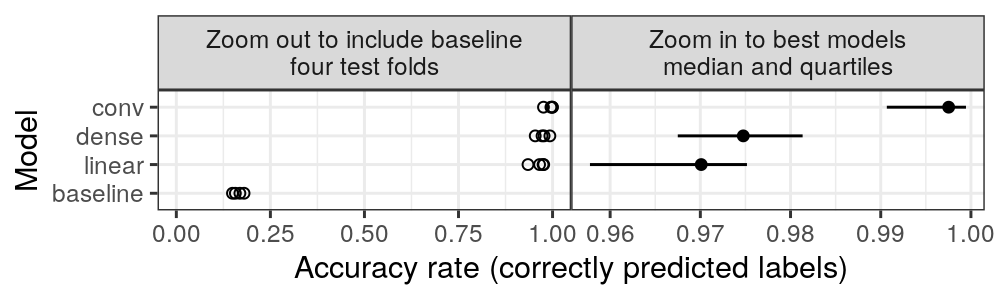
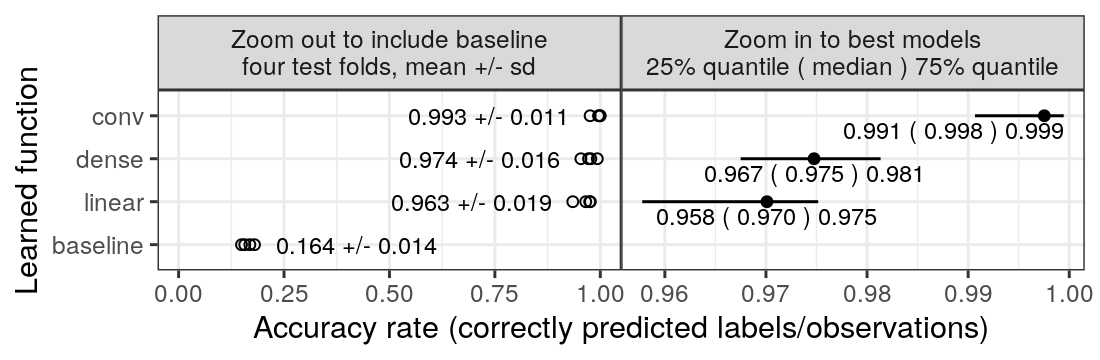
both fig with geom_text

Changed region(s): [[0.0, 0.03, 1.0, 0.96]]

diff --git a/HOCKING-chapter.tex b/HOCKING-chapter.tex
@@ -97,11 +97,12 @@ for Trouser, 2 for Pullover, etc).  In both data sets the goal is to
 learn a function
 $f:\mathbb R^{28\times 28}\rightarrow \{0,1,\dots, 9\}$ which inputs
 an image $\mathbf x$ and outputs a predicted class $f(\mathbf x)$
-which should ideally be the same as the corresponding label $y$. As
-mentioned above, a big advantage of supervised learning algorithms is
-that they are typically domain-agnostic, meaning that they can learn
-accurate prediction functions $f$ using data sets with different kinds
-of patterns. That means we can use a single learning algorithm
+which should ideally be the same as the corresponding label $y$.
+
+As mentioned above, a big advantage of supervised learning algorithms
+is that they are typically domain-agnostic, meaning that they can
+learn accurate prediction functions $f$ using data sets with different
+kinds of patterns. That means we can use a single learning algorithm
 \textsc{Learn} on both the MNIST or Fashion-MNIST data sets
 (Figure~\ref{fig:drawing-mnist-train-test}, left). For the MNIST data
 set the learning algorithm will output a function for predicting the
@@ -111,9 +112,12 @@ will output a function for predicting the class of a clothing image
 this supervised machine learning approach to image classification is
 that the programmer does not need any domain-specific knowledge about
 the expected pattern (e.g., shape of each digit, appearance of each
-clothing type). Instead, the learning algorithm infers the
-domain-specific pattern and prediction function from the data set
-(which we assume has been accurately labeled).
+clothing type). Instead, we assume there is a data set with enough
+labels for the learning algorithm to accurately infer the
+domain-specific pattern and prediction function. This means that the
+machine learning approach is only appropriate when it is
+possible/inexpensive to create a large labeled data set that
+accurately represents the pattern/function to be learned.
 
 How do we know if the learning algorithm is working properly? The goal
 of supervised learning is \keyword{generalization}, which means the
@@ -124,7 +128,7 @@ during learning). To formalize this idea, and to compute quantitative
 evaluation metrics (accuracy/error rates), we need a test data set, as
 explained in the next section.
 
-\subsection{$K$-fold cross-validation for training and evaluation}
+\subsection{$K$-fold cross-validation for evaluating prediction/test accuracy}
 
 Each input $\mathbf x$ in a data set is typically represented as one
 of $N$ rows in a design matrix with $D$ columns (one for each
@@ -185,88 +189,73 @@ Figure~\ref{fig:test-accuracy}).
   \label{fig:cross-validation}
 \end{figure}
 
-The $K$-fold cross-validation algorithm generates $K$ splits, and can
+The $K$-fold cross-validation procudure generates $K$ splits, and can
 therefore be used to estimate both mean and variance of prediction
 accuracy/error. The number of folds/splits $K$ is a user-defined
-parameter which must be at least 2, and at most $N$. Typical choices
-range from $K=3$ to 10, and usually the value of $K$ does not have a
-large effect on the final estimated mean/variance of prediction
+integer parameter which must be at least 2, and at most $N$. Typical
+choices range from $K=3$ to 10, and usually the value of $K$ does not
+have a large effect on the final estimated mean/variance of prediction
 accuracy/error. The algorithm begins by randomly assigning a fold ID
 number (integer from 1 to $K$) to each observation
-(Figure~\ref{fig:cross-validation}). In most applications you will
-need to create train/test splits yourself. TODO For example, Algorithm
-1 resulted in $91.2\pm 2.2\%$
+(Figure~\ref{fig:cross-validation}, left). Then for each unique fold
+value from 1 to $K$, we hold out the corresponding observations/rows
+as a test set, and use data from all other folds as a train set
+(Figure~\ref{fig:cross-validation}, right). Each train set is used to
+learn a corresponding prediction function, which is then used to
+predict on the held out test data. Finally, accuracy/error metrics are
+computed in order to quantify how well the predictions fit the labels
+for the test data. Overall for each data set and learning algorithm
+the $K$-fold cross-validation procedure results in $K$ splits, $K$
+learned functions, and $K$ test accuracy/error metrics, which are
+typically combined by taking the mean and standard deviation (or
+median and quartiles). Other algorithms may be used with the same fold
+assignments, in order to compare algorithms in terms of accuracy/error
+rates in particular data sets.
 
+For example, Figure~\ref{fig:test-accuracy} uses $K=4$-fold
+cross-validation to compare four learned functions on an image
+classification problem. The accuracy rates of the ``dense'' and
+``linear'' functions, $97.4 \pm 1.6 \%$ and $96.3 \pm 1.9 \%$ (mean
+$\pm$ standard deviation) are not significantly different. Both rates
+are significantly larger than the accuracy of the ``baseline''
+constant function, $16.4 \pm 1.4 \%$, and smaller than the accuracy of
+the ``conv'' function, $99.3 \pm 1.1 \%$. We can therefore conclude
+that the most accurate learning algorithm for this problem, among
+these four candidates, is the ``conv'' method (which uses a
+convolutional neural network, explained later).  It is important to
+note that statements about what algorithm is most accurate only makes
+sense in terms of a particular data set, after having performed
+$K$-fold cross-validation to estimate prediction accuracy/error rates.
 
+\subsection{$K$-fold cross-validation for avoiding overfitting}
 
+% \begin{figure}
+%   \centering
+%   \includegraphics[width=0.4\textwidth]{figure-fashion-mnist-one-example}
+%   \includegraphics[width=0.4\textwidth]{screenshot-8-matrix-values}
+%   \caption{One example/observation with label 8 in the MNIST data
+%   set. \textbf{Left:} representation as greyscale
+%   image. \textbf{Right:} representation as $28 \times 28$ matrix;
+%   each of the 784 elements is an integer value from 0 to 255.}
+%   \label{fig:mnist-one-example}
+% \end{figure}
 
+% \begin{figure}
+%   \centering
+%   \includegraphics[width=0.49\textwidth]{figure-fashion-mnist-digits}
+%   \includegraphics[width=0.49\textwidth]{figure-fashion-mnist-fashion}
+%   %   \\
+%   %   \includegraphics[width=0.49\textwidth]{figure-fashion-mnist-digits-design}
+%   %   \includegraphics[width=0.49\textwidth]{figure-fashion-mnist-fashion-design} 
+%   \caption{Seven example images from each class/label in the original MNIST digits
+%   (left) and Fashion-MNIST (right) data sets. For each data set
+%   different label values from 0 to 9 appear are shown in panels
+%   from left to right, and different examples/observations are
+%   shown in panels from top to bottom.} 
+%   \label{fig:fashion-mnist}
+% \end{figure}
 
-
-
-ML is all about learning predictive functions
-$f(x)\approx y$, where
-  \begin{itemize}
-  \item Inputs/features $x$ can be easily computed using traditional
-    algorithms, e.g. matrix of pixel intensities in an image.
-  \item Outputs/labels $y$ are what we want to predict, easy to get by
-    asking a human, but hard to compute using traditional algorithms,
-    e.g. image class.
-  \item Input $x$ = image of digit, output $y\in\{0,1,\dots,9\}$, \\--
-    this is a classification problem with 10 classes.\\
-  $f(\includegraphics[height=1cm]{mnist-0})=0$,
-  $f(\includegraphics[height=1cm]{mnist-1})=1$
-\item Traditional/unsupervised algorithm: I give you a pixel intensity matrix
-  $x\in\RR^{16\times 16}$, you code a function $f$ that returns one of
-  the 10 possible digits. Q: how to do that?
-  \end{itemize}
-
-  Supervised machine learning algorithms.
-  I give you a training data set with paired inputs/outputs, e.g.
-
-  % \begin{figure}
-  %   \centering
-  %   \includegraphics[width=0.4\textwidth]{figure-fashion-mnist-one-example}
-  %   \includegraphics[width=0.4\textwidth]{screenshot-8-matrix-values}
-  %   \caption{One example/observation with label 8 in the MNIST data
-  %     set. \textbf{Left:} representation as greyscale
-  %     image. \textbf{Right:} representation as $28 \times 28$ matrix;
-  %     each of the 784 elements is an integer value from 0 to 255.}
-  %   \label{fig:mnist-one-example}
-  % \end{figure}
-
-  % \begin{figure}
-  %   \centering
-  %   \includegraphics[width=0.49\textwidth]{figure-fashion-mnist-digits}
-  %   \includegraphics[width=0.49\textwidth]{figure-fashion-mnist-fashion}
-  %   % \\
-  %   % \includegraphics[width=0.49\textwidth]{figure-fashion-mnist-digits-design}
-  %   % \includegraphics[width=0.49\textwidth]{figure-fashion-mnist-fashion-design} 
-  %   \caption{Seven example images from each class/label in the original MNIST digits
-  %     (left) and Fashion-MNIST (right) data sets. For each data set
-  %     different label values from 0 to 9 appear are shown in panels
-  %     from left to right, and different examples/observations are
-  %     shown in panels from top to bottom.} 
-  %   \label{fig:fashion-mnist}
-  % \end{figure}
-
-  Your job is to code an algorithm that learns the function $f$ from
-  the training data. (you don't code $f$)
-  
-  Source: github.com/cazala/mnist
-
-  Advantages of supervised machine learning.
-  \begin{itemize}
-  \item Input $x\in\RR^{16\times 16}$, output $y\in\{0,1,\dots,9\}$ types the same!
-  \item Can use same learning algorithm regardless of pattern.
-  \item Pattern encoded in the labels (not the algorithm).
-  \item Useful if there are many un-labeled data, but few labeled data
-    (or getting labels is long/costly).
-  \item State-of-the-art accuracy (if there is enough training data).
-  \end{itemize}
-  Sources: github.com/cazala/mnist, github.com/zalandoresearch/fashion-mnist
-
-Learning two different functions.
-Say \textsc{Learn} is a learning algorithm you have coded.
+\subsection{Other applications}
 
 Machine learning for cell image classification (CellProfiler).
 Jones {\it et al.} PNAS 2009. Scoring diverse cellular morphologies in
